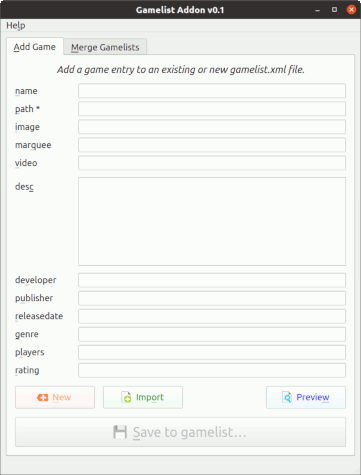
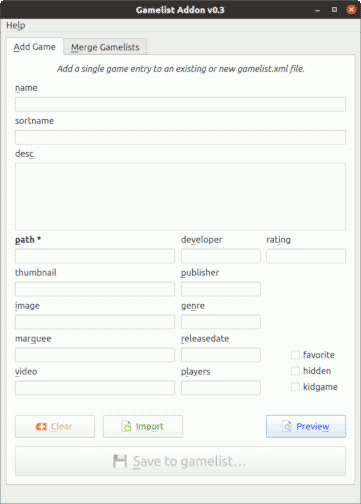
ready for v0.3

diff --git a/README.html b/README.html
@@ -12,24 +12,34 @@
 </div>
 <h2 id="introduction">Introduction</h2>
 <p><a href="https://retropie.org.uk/docs/EmulationStation/#gamelistxml-edits">gamelist.xml</a> files are databases for the use in <a href="https://retropie.org.uk/docs/EmulationStation/">EmulationStation</a>, in example in RetroPie. They contain all paths and meta information for each system. Usually those files are created by some sort of <a href="https://retropie.org.uk/docs/Scraper/">scraper tools</a> and do not require any manual editing. However sometimes there are cases when manually editing is required. Editing such files in a text editor has some traps and is just a pain.</p>
-<p>This app will check for existing entries to and make sure the file is written in correct format. I started this project because there was no application on Linux that fulfill my needs. Also this is a good exercise to me learning more about programming.</p>
+<p>This app will check for existing game entries and make sure the file is written in correct format. It is not a replacement for a rom manager or full fledged gamelist.xml editor. Entries are added as they are and no additional rom, image or video files are copied or checked for existence. It is the users responsibility to manage those things separately.</p>
+<p>I started this project because there was no application on Linux that fulfill my needs. Also this is a good exercise to me learning more about programming.</p>
 <h2 id="usage">Usage</h2>
 <p>Once unpacked and the requirements are met, it is easy as running <strong>GamelistAddon.py</strong> or the run script. The app provides two main functionality modes: <em>Add Game</em> and <em>Merge Gamelists</em>.</p>
 <p>In <strong>Add Game</strong>-mode only the fields with content will be written to the file, but <em>path</em> is required. The game entry can be added to an existing gamelist.xml or saved as a new file created from scratch. When overwriting to an existing file, a check if the game is already existing will be made. The comparison is done at basename level of the path field, ignoring the directory portion. This allows for detecting any game, regardless of how the path is noted (in example relative notion). In example:</p>
 <pre><code>./game.gb
 /home/pi/RetroPie/roms/gb/game.gb</code></pre>
-<p>is treated as identical game. Currently if a dublication is detected, the user action is limited to ignoring or replacing the whole game entry. The <em>import</em> button will load up the first found entry from a selected gamelist.xml file. Any of the edit fields in the GUI act as af filter for searching. Only one of the active filters need to match, in order to read the entire game entry. A new added game with this function will have an attribute &quot;source&quot; with the content &quot;gamelistaddon&quot;, just like a scraper does.</p>
+<p>is treated as identical game. Currently if a dublication is detected, the user action is limited to ignoring or replacing the whole game entry.</p>
+<p>The <strong>import</strong> button will load up the first found entry from a selected gamelist.xml file. Any of the edit fields in the GUI act as af filter for searching. Only one of the active filters need to match, in order to read the entire game entry. A new added game with this function will have an attribute &quot;source&quot; with the content &quot;gamelistaddon&quot;, just like a scraper does. Note: Currently the favorite, hidden and kidgame do not work as filter, but work correctly otherwise.</p>
 <p>In the <strong>Merge Gamelists</strong>-mode two XML files must be selected. The first one act as base content to compare against and second file should have new content to add. The order is important. When saving a new output XML file, both input files game entries are compared at basename level (described above). The selected output file will be created from scratch with the content of the input files. The update log view will be populated with all newly added game entries only.</p>
-<p>There are two operational modes: <em>Ignore</em> and <em>Update</em>. Ignore mode will only add new games which do not exist in base content, basically ignoring duplicates. In Update mode all games from both files are included and every single tag is compared individually. The tags from add content have higher priority. Any merging operation is considered to be an update and listed in the log. It will copy non updated games in its entirety too.</p>
-<p>As a little bonus, in the app folder is a separate commandline tool <strong>merge.py</strong> with merge functionality from the main app. It does not require PyQt5 and could be used for automation or testing. Currently if there is any error, then the program will stop and output <em>ERROR</em> on screen. On success the paths of each newly added game entries are output. Important: On default no files are saved and the original XML files are untouched. Check the options and how to specify an output file with</p>
+<p>There are two merge modes: <strong>Ignore</strong> and <strong>Update</strong>. Ignore mode will only add new games which do not exist in base content, basically ignoring duplicates. In Update mode all games from both files are included and every single tag is compared individually. The tags from add content have higher priority. Any merging operation is considered to be an update and listed in the log. It will copy non updated games in its entirety too.</p>
+<p>Once Update mode is activated, a new tab <strong>Settings Merge Update</strong> will appear. In this view every single tag like <em>name</em> or <em>lastplayed</em> can be individually selected. Only those selected tags will be compared between base content data and add content data when using the update functionality. That means, if the tag lastplayed is found in add content, then it will be used in new file. Otherwise it defaults to lastplayed from base content. Any unchecked tag will be taken from base content without any changes.</p>
+<p>In the app folder is a separate commandline tool <strong>merge.py</strong> with merge functionality from the main app. It does not require PyQt5 and could be used for automation or testing. Currently if there is any error, then the program will stop and output <em>ERROR</em> on screen. On success the paths of each newly added game entries are output. Important: On default no files are saved and the original XML files are untouched. Check the options and how to specify an output file with</p>
 <pre><code>./merge.py -h.</code></pre>
-<h3 id="how-duplicates-are-identified">How duplicates are identified</h3>
+<h2 id="how-duplicates-are-identified">How duplicates are identified</h2>
 <p>This program uses an unique way of identifying duplicates. It assumes that a rom is appearing only once in the gamelist file. When comparing two different files, one might have a different notation of the directory part in the path. The comparison is done at <em>basename</em> only, means the file itself and ignoring that directory part. Here is an example what this means.</p>
 <p>gamelist.xml from user 1:</p>
 <pre><code>&lt;path&gt;./Aero the Acro-Bat 2 (U).smc&lt;/path&gt;</code></pre>
 <p>gamelist.xml from user 2:</p>
 <pre><code>&lt;path&gt;./roms/snes/Aero the Acro-Bat 2 (U).smc&lt;/path&gt;</code></pre>
 <p>This game is considered to be a duplicate. <em>Warning</em>: If the other file is using an unusual folder, this might cause problems when merging them.</p>
+<h2 id="known-bugs-limitations-and-quirks">Known bugs, limitations and quirks</h2>
+<p>In certain situations or parts of the program it behaves unexpected or in a very specific way. All unsolved mysteries are collected and described here.</p>
+<h3 id="non-critical">Non critical</h3>
+<ul>
+<li><p>Add Game view: When using the import function/button, then the checkboxes <em>favorite</em>, <em>hidden</em> and <em>kidgame</em> do not work as filters and are ignored. But they are fully functional otherwise and will be read and written. Only the ability to use them as filters like in name or desc is not possible.</p></li>
+<li><p>Merge Gamelists view: When using the Duplicate Mode: Update with Custom tag settings enabled, then the log will only list games with individually updated tags. These are marked as &quot;udpated&quot;. When a tag is copied from one of the contents without overwriting it, then it's not considered to be an update. This really applies only when using Custom tag settings and only what is seen in the log.</p></li>
+</ul>
 <h2 id="requirements">Requirements</h2>
 <p>When running Python version directly:</p>
 <ul>
@@ -55,6 +65,12 @@
 <h2 id="feedback">Feedback</h2>
 <p>If you want report a bug or have any questions, head over to the <a href="https://retropie.org.uk/forum/topic/27466/gamelist-addon-an-assist-tool-to-manually-add-new-game-entries">project's forum thread</a> in RetroPie or <a href="https://thingsiplay.game.blog/contact/">leave me a message</a> on my contact page.</p>
 <h2 id="changelog">Changelog</h2>
+<p>Version 0.3:</p>
+<ul>
+<li>new dedicated settings for Merge Update mode, limit updates to selected Tags only</li>
+<li>few missing Tags support added, previously they were ignored, namely <em>sortname</em>, <em>thumbnail</em>, <em>favorite</em>, <em>hidden</em> and <em>kidgame</em></li>
+<li>layout of main Add Game view redesigned, to reflect the new additions</li>
+</ul>
 <p>Version 0.2:</p>
 <ul>
 <li>new update feature in merge mode</li>

diff --git a/gui/MainWindow.py b/gui/MainWindow.py
@@ -766,30 +766,39 @@ class Ui_MainWindow(object):
         self.b_import_addgame.setText(_translate("MainWindow", " Imp&ort"))
         self.b_preview_addgame.setToolTip(_translate("MainWindow", "The XML representation of this game entry"))
         self.b_preview_addgame.setText(_translate("MainWindow", " Previe&w"))
-        self.l_name.setToolTip(_translate("MainWindow", "game title"))
+        self.l_name.setToolTip(_translate("MainWindow", "Game title for display"))
         self.l_name.setText(_translate("MainWindow", "&name"))
+        self.l_image.setToolTip(_translate("MainWindow", "Path to an image file, usually screenshot"))
         self.l_image.setText(_translate("MainWindow", "&image"))
+        self.l_marquee.setToolTip(_translate("MainWindow", "Path to an marquee image file"))
         self.l_marquee.setText(_translate("MainWindow", "mar&quee"))
+        self.l_thumbnail.setToolTip(_translate("MainWindow", "Path to a small image file"))
         self.l_thumbnail.setText(_translate("MainWindow", "thumbnail"))
-        self.le_name.setToolTip(_translate("MainWindow", "game title"))
+        self.l_desc.setToolTip(_translate("MainWindow", "Description with multiple lines"))
         self.l_desc.setText(_translate("MainWindow", "des&c"))
         self.l_path.setToolTip(_translate("MainWindow", "Required: Path to ROM file."))
         self.l_path.setText(_translate("MainWindow", "&path *"))
+        self.l_video.setToolTip(_translate("MainWindow", "Path to a video file"))
         self.l_video.setText(_translate("MainWindow", "&video"))
-        self.le_path.setToolTip(_translate("MainWindow", "Required: Path to ROM file."))
+        self.l_sortname.setToolTip(_translate("MainWindow", "Internal sorting, example 1. Legend of Zelda"))
         self.l_sortname.setText(_translate("MainWindow", "sortname"))
-        self.le_rating.setToolTip(_translate("MainWindow", "0.65"))
+        self.cb_favorite.setToolTip(_translate("MainWindow", "Show the game in RetroPie\'s Favorite system"))
         self.cb_favorite.setText(_translate("MainWindow", "favorite"))
+        self.cb_kidgame.setToolTip(_translate("MainWindow", "Show game only if in RetroPie UI Mode: \"Kid\" is active"))
         self.cb_kidgame.setText(_translate("MainWindow", "kidgame"))
+        self.cb_hidden.setToolTip(_translate("MainWindow", "Only show game, if in RetroPie \"Show Hidden Files\" is enabled"))
         self.cb_hidden.setText(_translate("MainWindow", "hidden"))
+        self.l_developer.setToolTip(_translate("MainWindow", "Creator of the game"))
         self.l_developer.setText(_translate("MainWindow", "de&veloper"))
+        self.l_genre.setToolTip(_translate("MainWindow", "Type and category"))
         self.l_genre.setText(_translate("MainWindow", "ge&nre"))
+        self.l_publisher.setToolTip(_translate("MainWindow", "Publisher of the game"))
         self.l_publisher.setText(_translate("MainWindow", "&publisher"))
+        self.l_players.setToolTip(_translate("MainWindow", "Max. player count"))
         self.l_players.setText(_translate("MainWindow", "p&layers"))
-        self.le_releasedate.setToolTip(_translate("MainWindow", "YYYYMMDD"))
         self.l_releasedate.setToolTip(_translate("MainWindow", "YYYYMMDD"))
         self.l_releasedate.setText(_translate("MainWindow", "&releasedate"))
-        self.l_rating.setToolTip(_translate("MainWindow", "0.65"))
+        self.l_rating.setToolTip(_translate("MainWindow", "Rating as floating point number, in example 0.65"))
         self.l_rating.setText(_translate("MainWindow", "rat&ing"))
         self.tab_mode.setTabText(self.tab_mode.indexOf(self.tab), _translate("MainWindow", "&Add Game"))
         self.l_new_merge.setToolTip(_translate("MainWindow", "Required: Path to XML file with additional content."))
@@ -851,7 +860,7 @@ class Ui_MainWindow(object):
         self.b_selectall_settings_merge.setToolTip(_translate("MainWindow", "Check all tags"))
         self.b_selectall_settings_merge.setText(_translate("MainWindow", " Select &All"))
         self.pushButton_3.setToolTip(_translate("MainWindow", "Not available in settings"))
-        self.pushButton_3.setText(_translate("MainWindow", " Save to gamelist…"))
+        self.pushButton_3.setText(_translate("MainWindow", " &Save to gamelist…"))
         self.tab_mode.setTabText(self.tab_mode.indexOf(self.tab_3), _translate("MainWindow", "Settings Merge Update"))
         self.menuHelp.setTitle(_translate("MainWindow", "He&lp"))
         self.actionReadme.setText(_translate("MainWindow", "&Manual"))

diff --git a/constants/App.py b/constants/App.py
@@ -13,7 +13,7 @@ class App():
         # Meta information
         self.NAME = 'Gamelist Addon'
         self.SOURCE = 'gamelistaddon'
-        self.VERSION = '0.2'
+        self.VERSION = '0.3'
         self.CREATOR = 'Tuncay D.'
         self.DESC = 'Add new game entries to gamelist.xml files created for EmulationStation.'
         self.LICENSE = """Copyright (C) 2020 Tuncay D

diff --git a/README.md b/README.md
@@ -102,9 +102,12 @@ will only generate the .ui files and the distribution packages for Python only. 
 If you want report a bug or have any questions, head over to the [project's forum thread](https://retropie.org.uk/forum/topic/27466/gamelist-addon-an-assist-tool-to-manually-add-new-game-entries)  in RetroPie or [leave me a message](https://thingsiplay.game.blog/contact/) on my contact page.
 
 ## Changelog
+
 Version 0.3:
 
-- new settings for merge update mode, limit changes/updates to selected tags only
+- new dedicated settings for Merge Update mode, limit updates to selected Tags only
+- few missing Tags support added, previously they were ignored, namely *sortname*, *thumbnail*, *favorite*, *hidden* and *kidgame*
+- layout of main Add Game view redesigned, to reflect the new additions
 
 Version 0.2:
 
